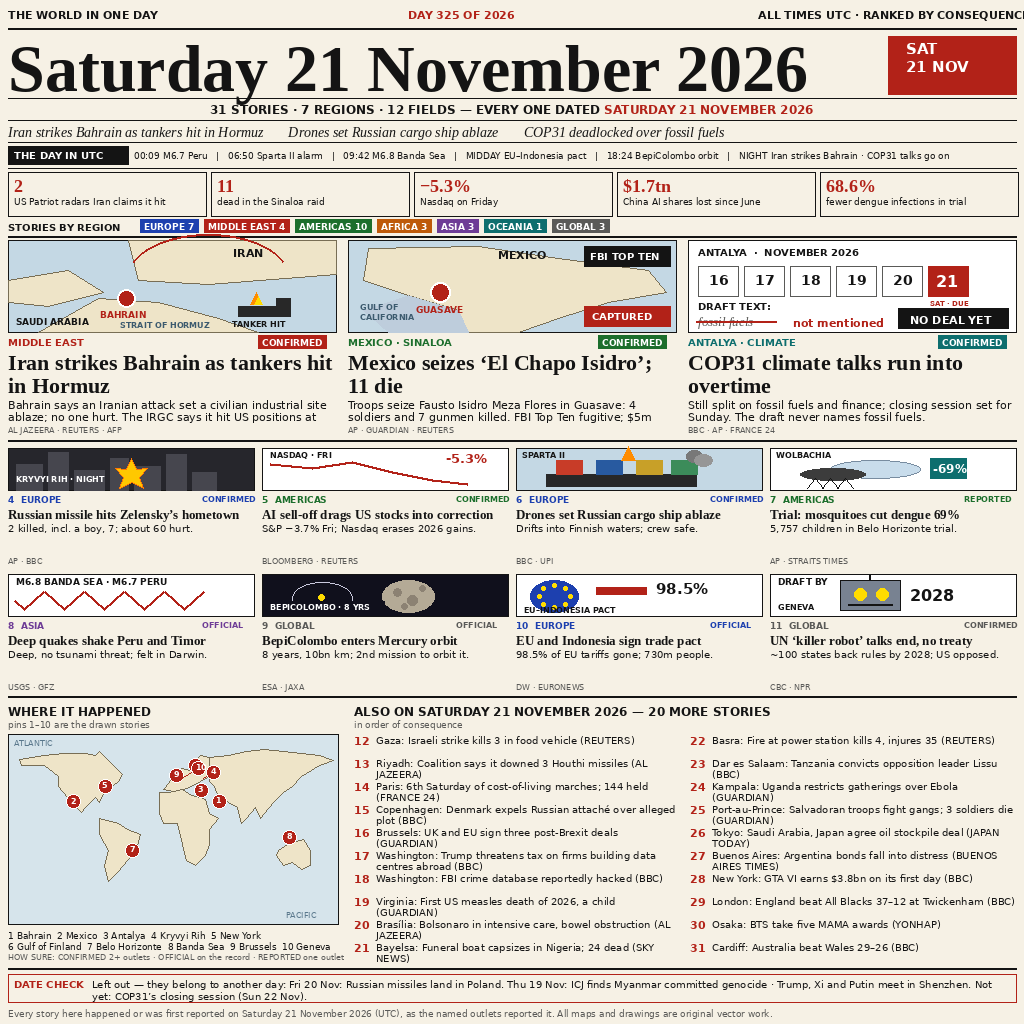
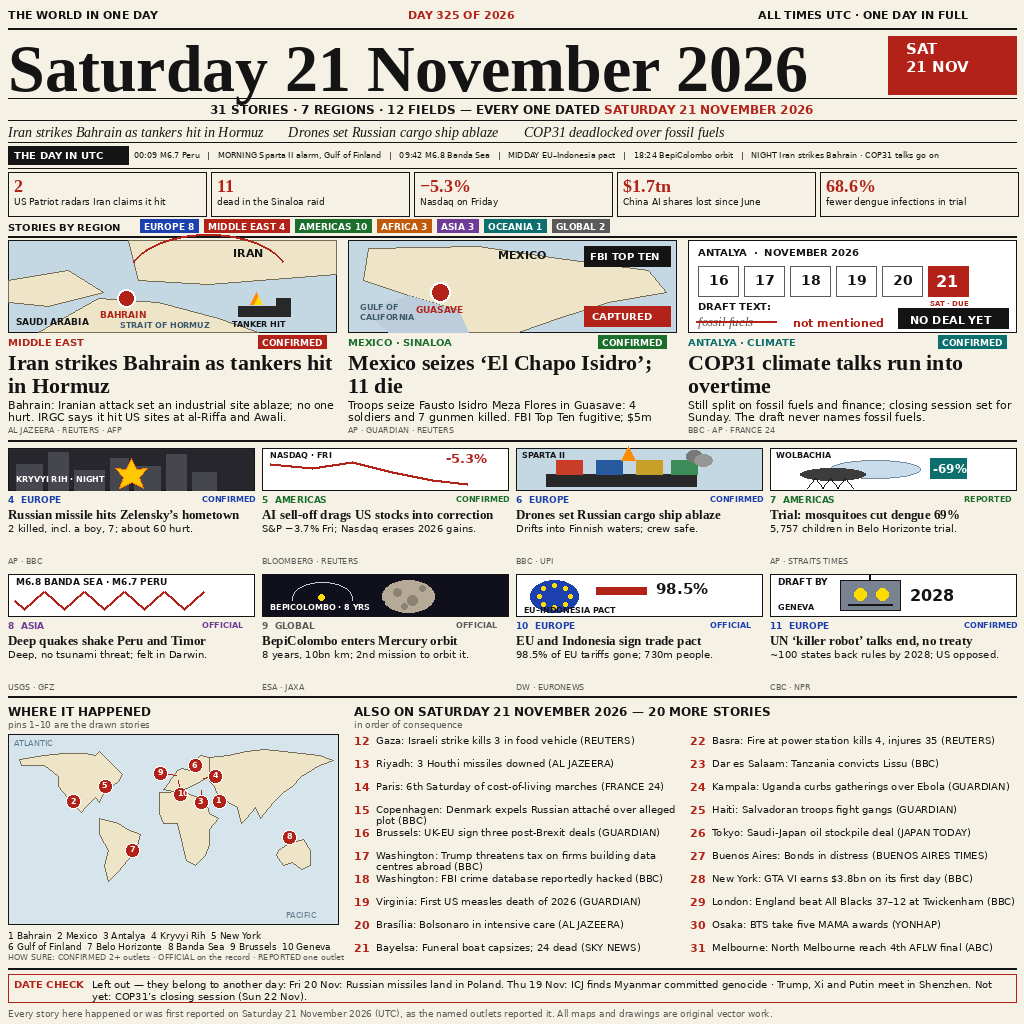
Fix verification findings: top-bar tagline, map pins, lead body, briefs, region counts
- Top bar no longer clipped; Sparta II timeline softened to MORNING
  (06:50 was unverified)
- World-map Europe pins hand-placed with leader lines; pin 6 readable
- Lead 1 body no longer truncated; briefs no longer orphan their source
- Region counts by place: EUROPE 8, GLOBAL 2; Geneva tagged EUROPE
- Melbourne AFLW brief replaces Cardiff (keeps Oceania 1 by place)

diff --git a/gen.py b/gen.py
@@ -121,9 +121,10 @@ AU = [(115, -20), (125, -15), (135, -12), (142, -10), (150, -20),
       (150, -35), (140, -38), (130, -32), (120, -35), (113, -25)]
 CONTINENTS = [NA, SA, AF, EU, AS, AU]
 
-PINS = [(50.5, 26.2), (-108.5, 25.6), (30.7, 36.9), (33.4, 47.9),
-        (-74.0, 40.7), (24.5, 59.8), (-43.9, -19.9), (127.4, -7.7),
-        (4.35, 50.85), (6.14, 46.2)]
+PINS = [(50.5, 26.2, 0, 0), (-108.5, 25.6, 0, 0), (30.7, 36.9, 0, 12),
+        (33.4, 47.9, 12, -2), (-74.0, 40.7, 0, 0), (24.5, 59.8, 0, 0),
+        (-43.9, -19.9, 0, 0), (127.4, -7.7, 0, 0), (4.35, 50.85, -16, -2),
+        (6.14, 46.2, 2, 14)]
 
 
 def world_map(d, x, y, w, h, pins=True):
@@ -134,18 +135,10 @@ def world_map(d, x, y, w, h, pins=True):
     d.text((x + 6, y + 4), "ATLANTIC", font=F(SANS, 8), fill=(90, 120, 140))
     d.text((x + w - 52, y + h - 14), "PACIFIC", font=F(SANS, 8), fill=(90, 120, 140))
     if pins:
-        drawn = []
-        for i, (lon, lat) in enumerate(PINS, 1):
-            px, py = project(x, y, w, h, lon, lat)
-            for _ in range(2):
-                if any((px - qx) ** 2 + (py - qy) ** 2 < 14 ** 2 for qx, qy in drawn):
-                    px += 10
-                    py -= 6
-                else:
-                    break
-            drawn.append((px, py))
+        for i, (lon, lat, dx, dy) in enumerate(PINS, 1):
             ox, oy = project(x, y, w, h, lon, lat)
-            if (px, py) != (ox, oy):
+            px, py = ox + dx, oy + dy
+            if (dx, dy) != (0, 0):
                 d.line([(ox, oy), (px, py)], fill=RED, width=1)
             d.ellipse([px - 7, py - 7, px + 7, py + 7], fill=RED,
                       outline=(255, 255, 255), width=1)
@@ -330,9 +323,8 @@ def ill_robot(d, x, y, w, h):
 LEADS = [
     dict(region="MIDDLE EAST", color=RED, status="CONFIRMED",
          head="Iran strikes Bahrain as tankers hit in Hormuz",
-         body=("Bahrain says an Iranian attack set a civilian industrial site "
-               "ablaze; no one hurt. The IRGC says it hit US positions at "
-               "al-Riffa and Awali."),
+         body=("Bahrain: Iranian attack set an industrial site ablaze; no one "
+               "hurt. IRGC says it hit US sites at al-Riffa and Awali."),
          src="AL JAZEERA \u00b7 REUTERS \u00b7 AFP", ill="gulf"),
     dict(region="MEXICO \u00b7 SINALOA", color=GREEN, status="CONFIRMED",
          head="Mexico seizes \u2018El Chapo Isidro\u2019; 11 die",
@@ -375,7 +367,7 @@ MEDIUM = [
          head="EU and Indonesia sign trade pact",
          body="98.5% of EU tariffs gone; 730m people.",
          src="DW \u00b7 EURONEWS", ill="trade"),
-    dict(n=11, region="GLOBAL", color=GREY, status="CONFIRMED",
+    dict(n=11, region="EUROPE", color=BLUE, status="CONFIRMED",
          head="UN \u2018killer robot\u2019 talks end, no treaty",
          body="~100 states back rules by 2028; US opposed.",
          src="CBC \u00b7 NPR", ill="robot"),
@@ -383,25 +375,25 @@ MEDIUM = [
 
 BRIEFS = [
     ("Gaza", "Israeli strike kills 3 in food vehicle", "REUTERS"),
-    ("Riyadh", "Coalition says it downed 3 Houthi missiles", "AL JAZEERA"),
-    ("Paris", "6th Saturday of cost-of-living marches; 144 held", "FRANCE 24"),
+    ("Riyadh", "3 Houthi missiles downed", "AL JAZEERA"),
+    ("Paris", "6th Saturday of cost-of-living marches", "FRANCE 24"),
     ("Copenhagen", "Denmark expels Russian attach\u00e9 over alleged plot", "BBC"),
-    ("Brussels", "UK and EU sign three post-Brexit deals", "GUARDIAN"),
+    ("Brussels", "UK-EU sign three post-Brexit deals", "GUARDIAN"),
     ("Washington", "Trump threatens tax on firms building data centres abroad", "BBC"),
     ("Washington", "FBI crime database reportedly hacked", "BBC"),
-    ("Virginia", "First US measles death of 2026, a child", "GUARDIAN"),
-    ("Bras\u00edlia", "Bolsonaro in intensive care, bowel obstruction", "AL JAZEERA"),
-    ("Bayelsa", "Funeral boat capsizes in Nigeria; 24 dead", "SKY NEWS"),
+    ("Virginia", "First US measles death of 2026", "GUARDIAN"),
+    ("Bras\u00edlia", "Bolsonaro in intensive care", "AL JAZEERA"),
+    ("Bayelsa", "Funeral boat capsizes; 24 dead", "SKY NEWS"),
     ("Basra", "Fire at power station kills 4, injures 35", "REUTERS"),
-    ("Dar es Salaam", "Tanzania convicts opposition leader Lissu", "BBC"),
-    ("Kampala", "Uganda restricts gatherings over Ebola", "GUARDIAN"),
-    ("Port-au-Prince", "Salvadoran troops fight gangs; 3 soldiers die", "GUARDIAN"),
-    ("Tokyo", "Saudi Arabia, Japan agree oil stockpile deal", "JAPAN TODAY"),
-    ("Buenos Aires", "Argentina bonds fall into distress", "BUENOS AIRES TIMES"),
+    ("Dar es Salaam", "Tanzania convicts Lissu", "BBC"),
+    ("Kampala", "Uganda curbs gatherings over Ebola", "GUARDIAN"),
+    ("Haiti", "Salvadoran troops fight gangs", "GUARDIAN"),
+    ("Tokyo", "Saudi-Japan oil stockpile deal", "JAPAN TODAY"),
+    ("Buenos Aires", "Bonds in distress", "BUENOS AIRES TIMES"),
     ("New York", "GTA VI earns $3.8bn on its first day", "BBC"),
     ("London", "England beat All Blacks 37\u201312 at Twickenham", "BBC"),
     ("Osaka", "BTS take five MAMA awards", "YONHAP"),
-    ("Cardiff", "Australia beat Wales 29\u201326", "BBC"),
+    ("Melbourne", "North Melbourne reach 4th AFLW final", "ABC"),
 ]
 
 ILL = {"gulf": ill_gulf, "mexico": ill_mexico, "cop31": ill_cop31,
@@ -417,7 +409,7 @@ def draw():
     # ---- top bar
     d.text((x0, 8), "THE WORLD IN ONE DAY", font=F(SANS_B, 11), fill=INK)
     d.text((x0 + 400, 8), "DAY 325 OF 2026", font=F(SANS_B, 11), fill=RED)
-    d.text((x1 - 258, 8), "ALL TIMES UTC \u00b7 RANKED BY CONSEQUENCE",
+    d.text((x1 - 258, 8), "ALL TIMES UTC \u00b7 ONE DAY IN FULL",
            font=F(SANS_B, 11), fill=INK)
     rule(d, x0, 28, x1 - x0, width=2)
     # ---- masthead
@@ -444,7 +436,7 @@ def draw():
     # ---- timeline strip (auto-fit to the strip)
     d.rectangle([x0, 146, 128, 164], fill=INK)
     d.text((x0 + 6, 149), "THE DAY IN UTC", font=F(SANS_B, 10), fill=(255, 255, 255))
-    tl = ("00:09 M6.7 Peru   |   06:50 Sparta II alarm   |   09:42 M6.8 Banda Sea   |   "
+    tl = ("00:09 M6.7 Peru   |   MORNING Sparta II alarm, Gulf of Finland   |   09:42 M6.8 Banda Sea   |   "
           "MIDDAY EU\u2013Indonesia pact   |   18:24 BepiColombo orbit   |   "
           "NIGHT Iran strikes Bahrain \u00b7 COP31 talks go on")
     ftl = fit(SANS, tl, x1 - 134, 10)
@@ -463,9 +455,9 @@ def draw():
         d.text((bx + 6, 175), big, font=F(SERIF_B, 18), fill=RED)
         para(d, bx + 6, 196, lab, F(SANS, 9), nw - 12, leading=10, max_lines=2)
     # ---- region tabs
-    tabs = [("EUROPE", 7, BLUE), ("MIDDLE EAST", 4, RED), ("AMERICAS", 10, GREEN),
+    tabs = [("EUROPE", 8, BLUE), ("MIDDLE EAST", 4, RED), ("AMERICAS", 10, GREEN),
             ("AFRICA", 3, ORANGE), ("ASIA", 3, PURPLE), ("OCEANIA", 1, TEAL),
-            ("GLOBAL", 3, GREY)]
+            ("GLOBAL", 2, GREY)]
     tx = x0
     d.text((tx, 221), "STORIES BY REGION", font=F(SANS_B, 10), fill=INK)
     tx += 132
